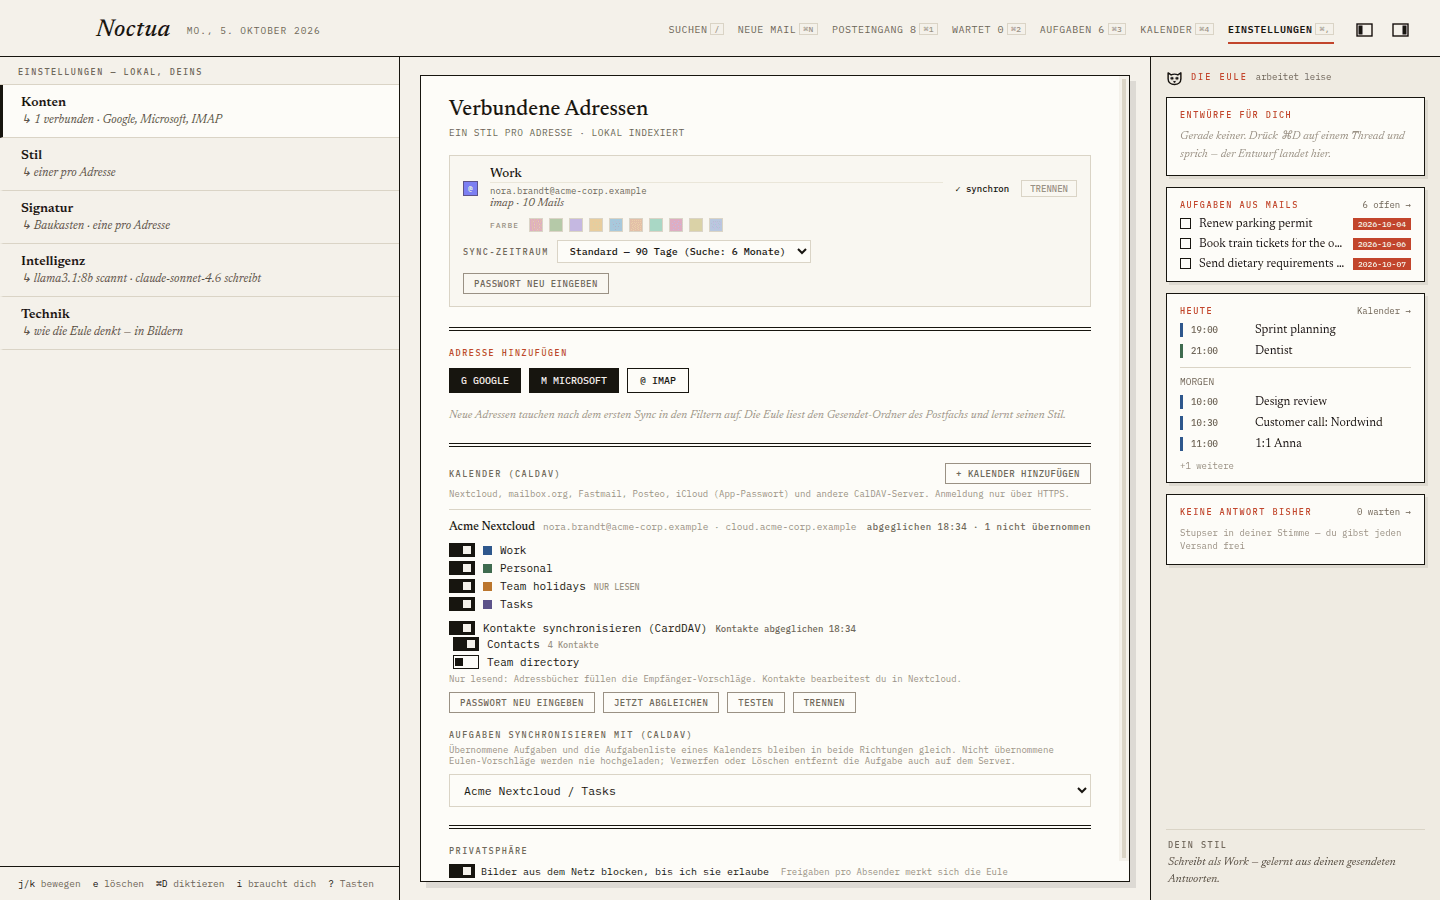
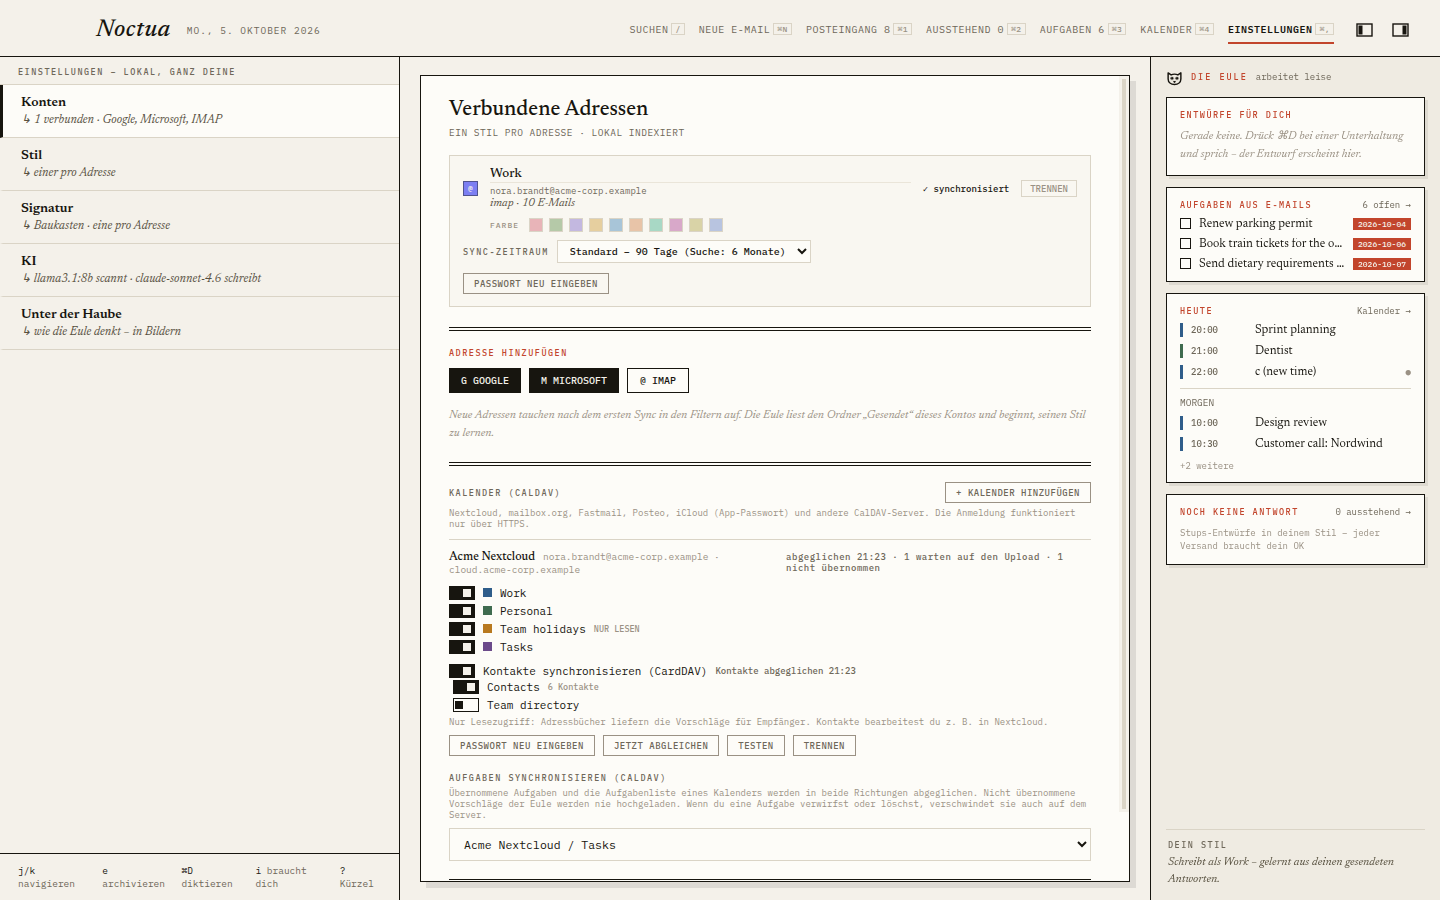
Refresh German screenshots, tighten a few DE labels, fix demo tour selectors
Claude-Session: https://claude.ai/code/session_0118TtjamgyCoFogm8mtprcX

diff --git a/src/main/dev/demo-tour.ts b/src/main/dev/demo-tour.ts
@@ -252,7 +252,7 @@ export function runDemoTour(win: () => BrowserWindow | null, push: PushFn): void
       // Fokus weg (unvollständige Eingabe wird verworfen), nicht Escape: das würde den Editor schließen
       await js(`(() => { if (document.activeElement) document.activeElement.blur() })()`)
       await wait(300)
-      await clickText('.cal-editor button.text-btn', 'next free slot|nächster gemeinsamer')
+      await clickText('.cal-editor button.text-btn', 'next free slot|nächste freie zeit')
       await wait(1500)
       await js(
         `(() => { const e = document.querySelector('.cal-editor .overflow-y-auto'); if (e) e.scrollTop = 9999 })()`
@@ -300,7 +300,7 @@ export function runDemoTour(win: () => BrowserWindow | null, push: PushFn): void
       await shot('30b-settings-accounts-end')
     })
     await step('settings-intel', async () => {
-      await openSettings('intelligence|intelligenz')
+      await openSettings('intelligence|ki')
       await shot('31-settings-intelligence')
       await scrollMain(650)
       await shot('31b-settings-intelligence-models')
@@ -308,7 +308,7 @@ export function runDemoTour(win: () => BrowserWindow | null, push: PushFn): void
       await shot('31c-settings-intelligence-end')
     })
     await step('settings-tech', async () => {
-      await openSettings('under the hood|technik')
+      await openSettings('under the hood|unter der haube')
       await shot('32-settings-tech')
       await scrollMain(0, true)
       await shot('32b-settings-tech-network')
@@ -399,13 +399,13 @@ export function runDemoTour(win: () => BrowserWindow | null, push: PushFn): void
       await shot('50-local-only-inbox')
     })
     await step('intel', async () => {
-      await openSettings('intelligence|intelligenz')
+      await openSettings('intelligence|ki')
       await shot('51-local-only-intelligence')
       await scrollMain(0, true)
       await shot('51b-local-only-intelligence-end')
     })
     await step('tech', async () => {
-      await openSettings('under the hood|technik')
+      await openSettings('under the hood|unter der haube')
       await scrollMain(0, true)
       await shot('52-local-only-tech-network')
     })

diff --git a/src/renderer/src/i18n/strings.ts b/src/renderer/src/i18n/strings.ts
@@ -707,7 +707,7 @@ const table = {
   owlAsleepNoKey: { en: 'asleep — no key.', de: 'schläft – kein Schlüssel.' },
   owlAsleepLocalOnly: {
     en: 'asleep — Local only, no local model set.',
-    de: 'schläft – „Nur lokal“ ist an, aber kein lokales Modell gewählt.'
+    de: 'schläft – kein lokales Modell.'
   },
   owlListening: { en: 'listening…', de: 'hört zu…' },
   owlDraftingS: { en: 'drafting…', de: 'entwirft…' },
@@ -1944,7 +1944,7 @@ const table = {
   techSpellTitle: { en: 'Spelling — offline, honest', de: 'Rechtschreibung – offline und ehrlich' },
   techSpellSample: { en: 'definately', de: 'Rechtschreibpürfung' },
   techSpellEngine: { en: 'HUNSPELL · WASM', de: 'HUNSPELL · WASM' },
-  techSpellDictNote: { en: 'BUNDLED LOCALLY', de: 'LOKAL MITGELIEFERT' },
+  techSpellDictNote: { en: 'BUNDLED LOCALLY', de: 'LOKAL IM PAKET' },
   techSpellSuggest: { en: 'SUGGESTIONS', de: 'VORSCHLÄGE' },
   techSpellFix: { en: 'definitely', de: 'Rechtschreibprüfung' },
   techSpellIgnoreNote: { en: 'IGNORE — THIS SESSION ONLY', de: 'IGNORIEREN – NUR DIESE SITZUNG' },
@@ -1977,7 +1977,7 @@ const table = {
     en: 'EVERY EMAIL — DETERMINISTIC · 0 AI CALLS',
     de: 'BEI JEDER E-MAIL – DETERMINISTISCH · 0 KI-AUFRUFE'
   },
-  techRulesMatch: { en: 'DOES IT MATCH?', de: 'TRIFFT DIE REGEL ZU?' },
+  techRulesMatch: { en: 'DOES IT MATCH?', de: 'PASST DIE REGEL?' },
   techRulesMatchNote: { en: 'PLAIN COMPARISONS', de: 'REINE VERGLEICHE' },
   techRulesAct1: { en: 'ARCHIVE', de: 'ARCHIVIEREN' },
   techRulesAct2: { en: 'TASK', de: 'AUFGABE' },
@@ -1989,7 +1989,7 @@ const table = {
 
   // 09 · Follow-up-Radar
   techRadarTitle: { en: 'The follow-up radar', de: 'Das Nachfass-Radar' },
-  techRadarSent1: { en: 'YOUR SENT', de: 'DEINE GESENDETE' },
+  techRadarSent1: { en: 'YOUR SENT', de: 'GESENDETE' },
   techRadarSent2: { en: 'EMAIL', de: 'E-MAIL' },
   techRadarDays: { en: '3 DAYS OF SILENCE', de: '3 TAGE OHNE ANTWORT' },
   techRadarDaysNote1: { en: 'THRESHOLD ADJUSTABLE', de: 'SCHWELLE EINSTELLBAR' },

diff --git a/docs/screenshots/company-edition/README.md b/docs/screenshots/company-edition/README.md
@@ -8,27 +8,27 @@ Regenerate: `pnpm exec electron-vite build && scripts/demo-tour.sh <outdir>`
 (`DEMO_PASS=local DEMO_LOCAL_ONLY=1`, `DEMO_PASS=small`, `DEMO_LANG=de`; the onboarding pass shows the AI step; with a
 company build (`NOCTUA_ORG_CONFIG=build/org-config.example.json`) the organisation profiles instead). See `src/main/dev/demo-seed.ts`.
 
-| File | Shows |
-| --- | --- |
-| 01-inbox-newsletter, 01b | Inbox, HTML newsletter in the sandboxed iframe (inline styles, blocked remote image banner, tracking pixel removed), Owl rail with Tasks and "Today" agenda |
-| 02-invitation | iMIP invitation card (accept/tentative/decline, conflict hint, calendar picker) |
-| 03-link-mismatch, 03b | Mail whose link text names another host than its target; warning toast on click |
-| 04-remote-images-blocked, 04b | Order mail with remote image, blocked and after "Show" (the image cannot load offline) |
-| 05-mail-attachment-task | Attachment row with real size, "in your tasks" strip |
-| 10-calendar-week, 11-day, 12-month | Calendar views: overlapping events, all-day and multi-day banners, recurring (with a moved occurrence), event across midnight |
-| 13-quick-create | Quick-create popover on a time slot |
-| 14-event-editor-attendees, 14b-14d | Event editor: attendee list (role required/optional, partstat, remove), add field, availability strip 08-20 per attendee (Marta without information), autocomplete from the address book (14c), "next free slot for everyone" (14d) |
-| 15-event-editor-recurring, 16-scope-choice | Recurrence editor and "only this / this and following / all" dialog |
-| 17-calendar-colour-palette | Calendar sidebar with colour palette |
-| 20-tasks | Tasks with CalDAV sync glyphs (synced, pending, conflict) |
-| 30, 30b | Settings, Accounts: mail account, CalDAV account with calendars, address books, tasks sync list, privacy |
-| 31, 31b, 31c | Settings, Intelligence: profiles (OpenRouter, local Ollama), task pickers, Local only, on-demand cards |
-| 32, 32b, 32c | Under the hood: pipelines and the live network connections list (Local only off) |
-| 40-45 | 1180 px window: inbox, calendar week/month/day, editor (44b: attendees + availability), settings |
-| 50-52 | Local only ON: LOCAL ONLY badge, blocked external profile, "on request" connections |
-| 60, 61 | Onboarding with organisation AI profiles (company build) |
-| 62, 63, 64 | Onboarding step 3 "Where should the AI run?": local server detected (Ollama on 127.0.0.1, models auto-picked, Local only on), cloud provider (OpenRouter key, privacy note), skip (Local only off). The pass starts a fake Ollama on 127.0.0.1:11434 |
-| de-* | German UI (invitation, calendar week, accounts, onboarding AI step: de-62, de-63) |
+| File                                       | Shows                                                                                                                                                                                                                                                |
+| ------------------------------------------ | ---------------------------------------------------------------------------------------------------------------------------------------------------------------------------------------------------------------------------------------------------- |
+| 01-inbox-newsletter, 01b                   | Inbox, HTML newsletter in the sandboxed iframe (inline styles, blocked remote image banner, tracking pixel removed), Owl rail with Tasks and "Today" agenda                                                                                          |
+| 02-invitation                              | iMIP invitation card (accept/tentative/decline, conflict hint, calendar picker)                                                                                                                                                                      |
+| 03-link-mismatch, 03b                      | Mail whose link text names another host than its target; warning toast on click                                                                                                                                                                      |
+| 04-remote-images-blocked, 04b              | Order mail with remote image, blocked and after "Show" (the image cannot load offline)                                                                                                                                                               |
+| 05-mail-attachment-task                    | Attachment row with real size, "in your tasks" strip                                                                                                                                                                                                 |
+| 10-calendar-week, 11-day, 12-month         | Calendar views: overlapping events, all-day and multi-day banners, recurring (with a moved occurrence), event across midnight                                                                                                                        |
+| 13-quick-create                            | Quick-create popover on a time slot                                                                                                                                                                                                                  |
+| 14-event-editor-attendees, 14b-14d         | Event editor: attendee list (role required/optional, partstat, remove), add field, availability strip 08-20 per attendee (Marta without information), autocomplete from the address book (14c), "next free slot for everyone" (14d)                  |
+| 15-event-editor-recurring, 16-scope-choice | Recurrence editor and "only this / this and following / all" dialog                                                                                                                                                                                  |
+| 17-calendar-colour-palette                 | Calendar sidebar with colour palette                                                                                                                                                                                                                 |
+| 20-tasks                                   | Tasks with CalDAV sync glyphs (synced, pending, conflict)                                                                                                                                                                                            |
+| 30, 30b                                    | Settings, Accounts: mail account, CalDAV account with calendars, address books, tasks sync list, privacy                                                                                                                                             |
+| 31, 31b, 31c                               | Settings, Intelligence: profiles (OpenRouter, local Ollama), task pickers, Local only, on-demand cards                                                                                                                                               |
+| 32, 32b, 32c                               | Under the hood: pipelines and the live network connections list (Local only off)                                                                                                                                                                     |
+| 40-45                                      | 1180 px window: inbox, calendar week/month/day, editor (44b: attendees + availability), settings                                                                                                                                                     |
+| 50-52                                      | Local only ON: LOCAL ONLY badge, blocked external profile, "on request" connections                                                                                                                                                                  |
+| 60, 61                                     | Onboarding with organisation AI profiles (company build)                                                                                                                                                                                             |
+| 62, 63, 64                                 | Onboarding step 3 "Where should the AI run?": local server detected (Ollama on 127.0.0.1, models auto-picked, Local only on), cloud provider (OpenRouter key, privacy note), skip (Local only off). The pass starts a fake Ollama on 127.0.0.1:11434 |
+| de-*                                       | German UI after the copy review (docs/GLOSSARY.md): inbox, invitation, calendar week/month, event editor, tasks, settings (accounts, AI, under the hood), Local only (`NUR LOKAL`), onboarding (connect de-60, AI step de-62 to de-64)               |
 
 ## Known remaining visual issues
 
